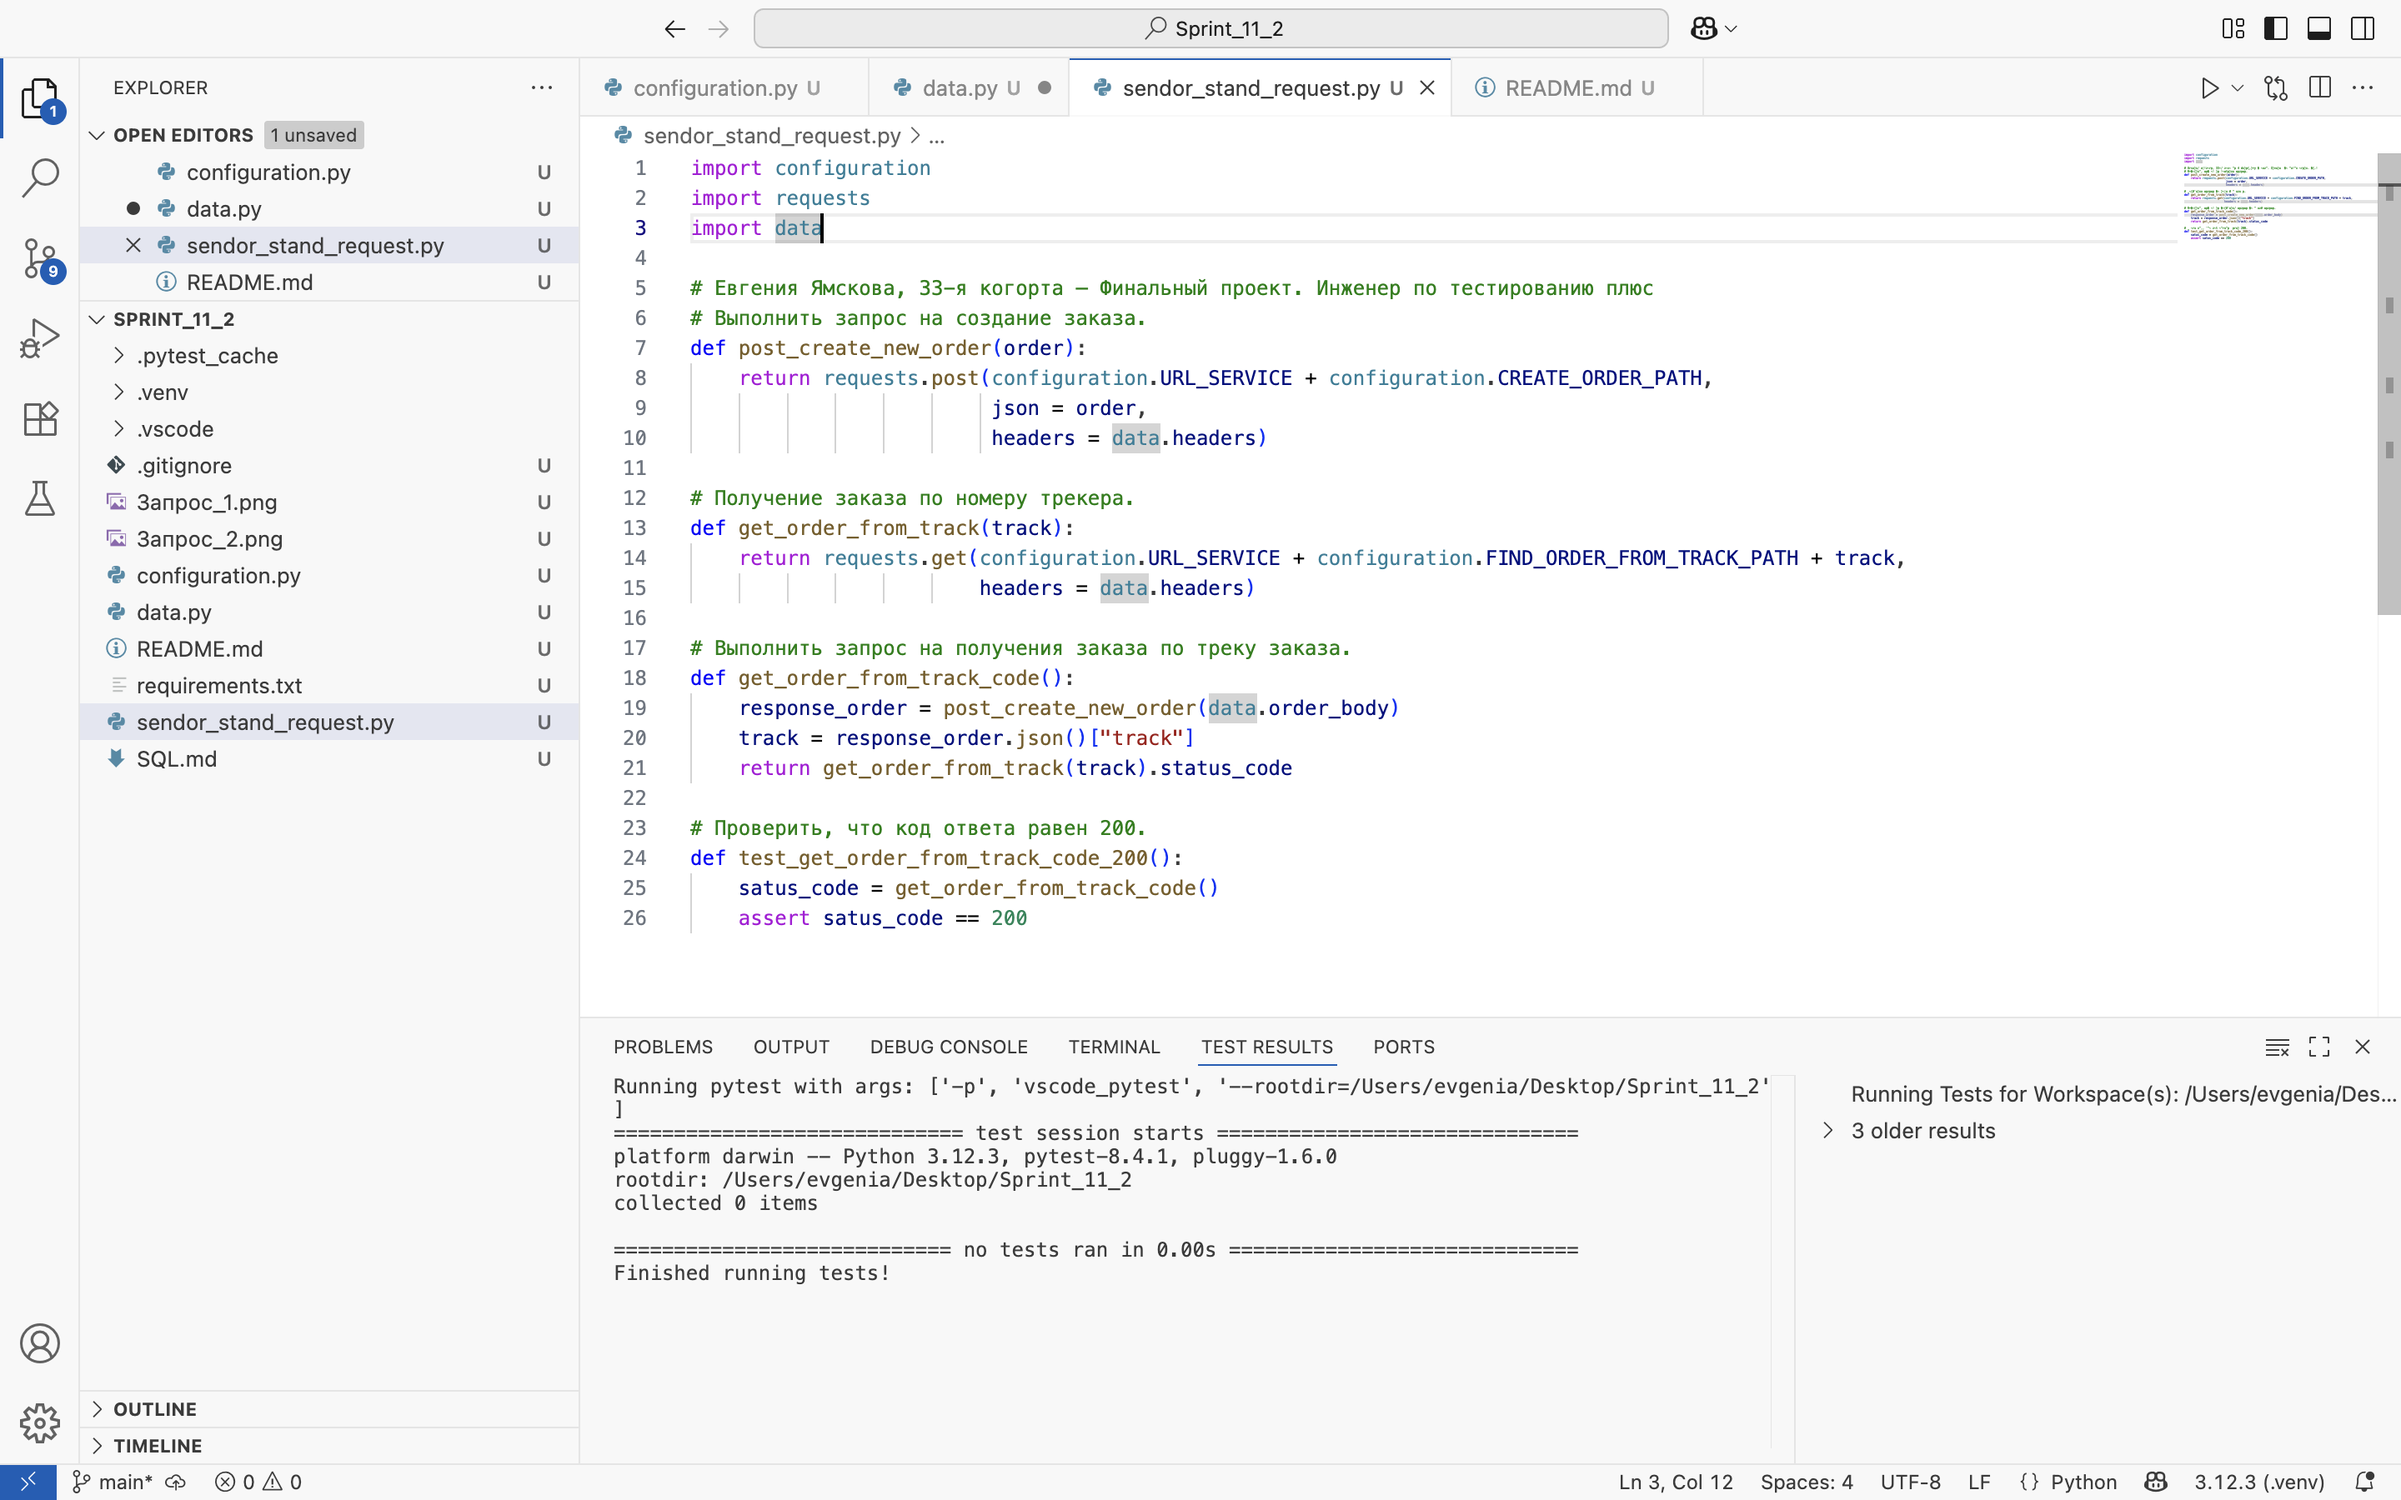
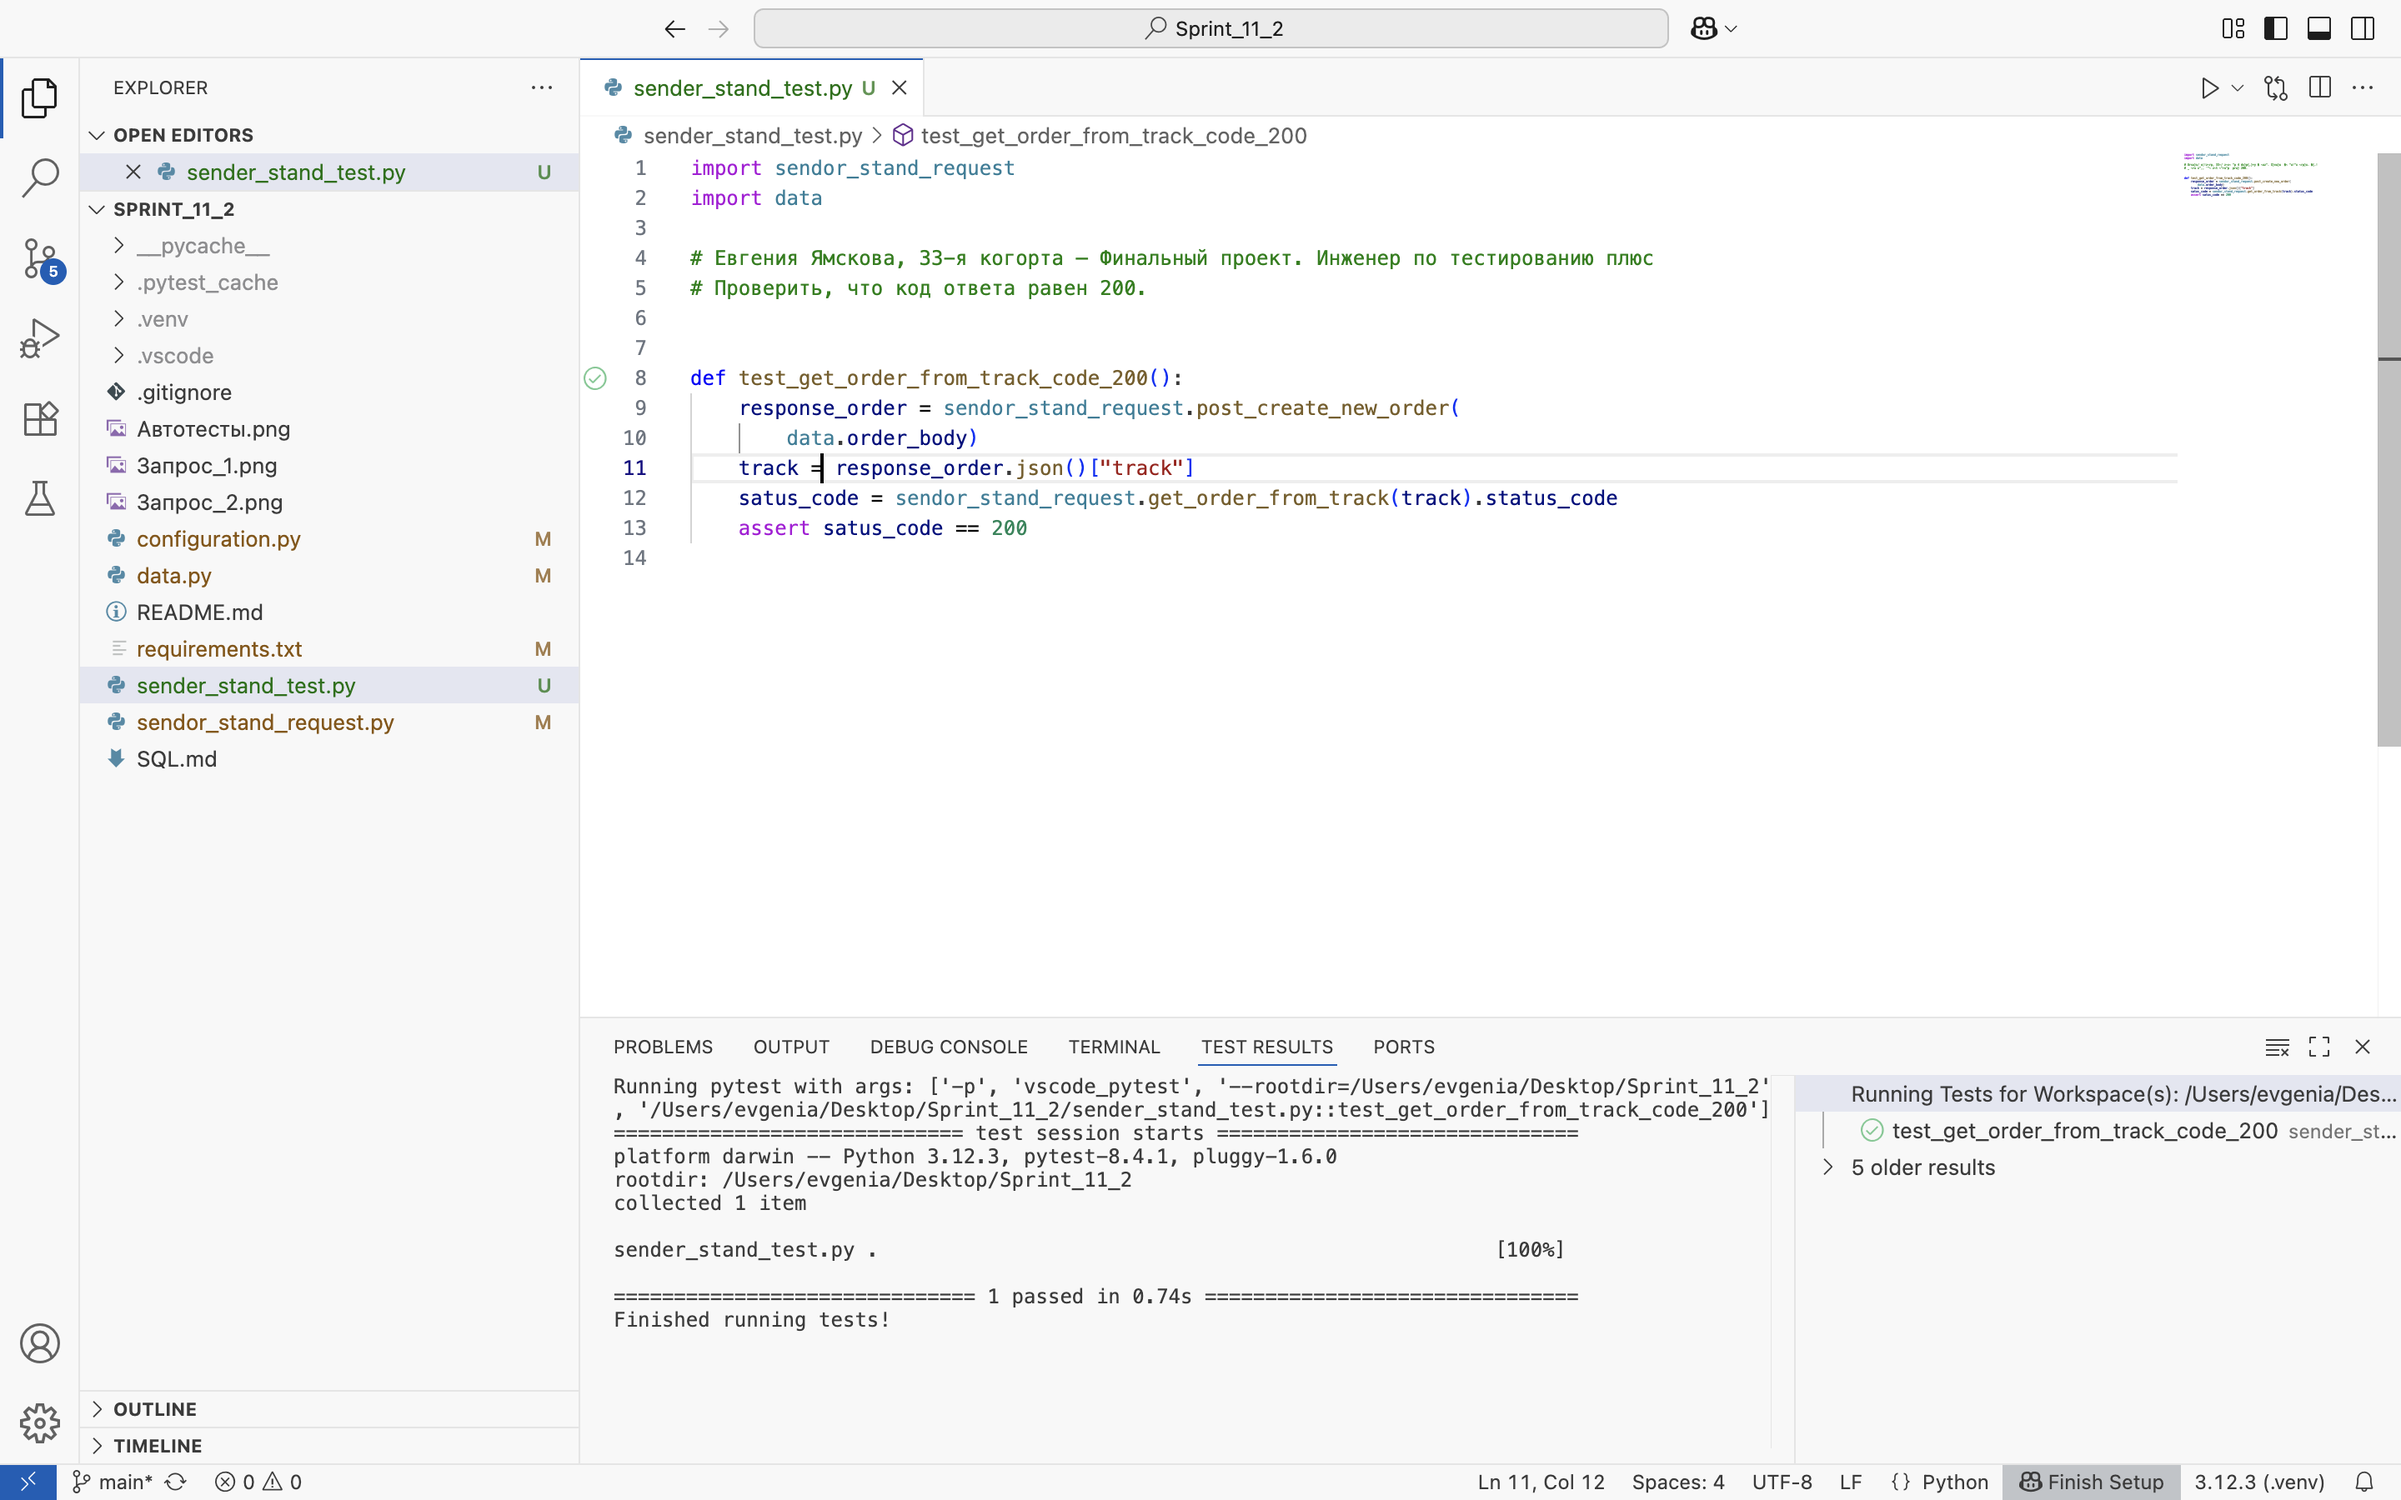
Исправления после ревью

diff --git a/sendor_stand_request.py b/sendor_stand_request.py
@@ -2,25 +2,17 @@ import configuration
 import requests
 import data
 
-# Евгения Ямскова, 33-я когорта — Финальный проект. Инженер по тестированию плюс
 # Выполнить запрос на создание заказа.
+
+
 def post_create_new_order(order):
-	return requests.post(configuration.URL_SERVICE + configuration.CREATE_ORDER_PATH,
-	                     json = order,
-	                     headers = data.headers)
+    return requests.post(configuration.URL_SERVICE + configuration.CREATE_ORDER_PATH,
+                         json=order,
+                         headers=data.headers)
 
 # Получение заказа по номеру трекера.
+
+
 def get_order_from_track(track):
-	return requests.get(configuration.URL_SERVICE + configuration.FIND_ORDER_FROM_TRACK_PATH + track,
-	                    headers = data.headers)
-
-# Выполнить запрос на получения заказа по треку заказа.
-def get_order_from_track_code():
-	response_order = post_create_new_order(data.order_body)
-	track = response_order.json()["track"]
-	return get_order_from_track(track).status_code
-
-# Проверить, что код ответа равен 200.
-def test_get_order_from_track_code_200():
-	satus_code = get_order_from_track_code()
-	assert satus_code == 200
+    return requests.get(configuration.URL_SERVICE + configuration.FIND_ORDER_FROM_TRACK_PATH + str(track),
+                        headers=data.headers)

diff --git a/sender_stand_test.py b/sender_stand_test.py
@@ -1,0 +1,13 @@
+import sendor_stand_request
+import data
+
+# Евгения Ямскова, 33-я когорта — Финальный проект. Инженер по тестированию плюс
+# Проверить, что код ответа равен 200.
+
+
+def test_get_order_from_track_code_200():
+    response_order = sendor_stand_request.post_create_new_order(
+        data.order_body)
+    track = response_order.json()["track"]
+    satus_code = sendor_stand_request.get_order_from_track(track).status_code
+    assert satus_code == 200

diff --git a/configuration.py b/configuration.py
@@ -1,3 +1,3 @@
-URL_SERVICE = "https://311be941-4a2b-43fd-8e4b-243387aa8ab2.serverhub.praktikum-services.ru"
+URL_SERVICE = "https://7359ced2-bd60-46e0-a2f0-3dbd6dc9c681.serverhub.praktikum-services.ru"
 CREATE_ORDER_PATH = "/api/v1/orders"
 FIND_ORDER_FROM_TRACK_PATH = "/api/v1/orders/track?t="

diff --git a/README.md b/README.md
@@ -13,5 +13,5 @@
 ## Скриншот результата:
 ![App Screenshot](./Автотесты.png)
 ### Configuration
-*	URL: https://311be941-4a2b-43fd-8e4b-243387aa8ab2.serverhub.praktikum-services.ru.
+*	URL: https://7359ced2-bd60-46e0-a2f0-3dbd6dc9c681.serverhub.praktikum-services.ru.
 *	Стэк: VSCode с пакетами: `requests`, `pytest`.
